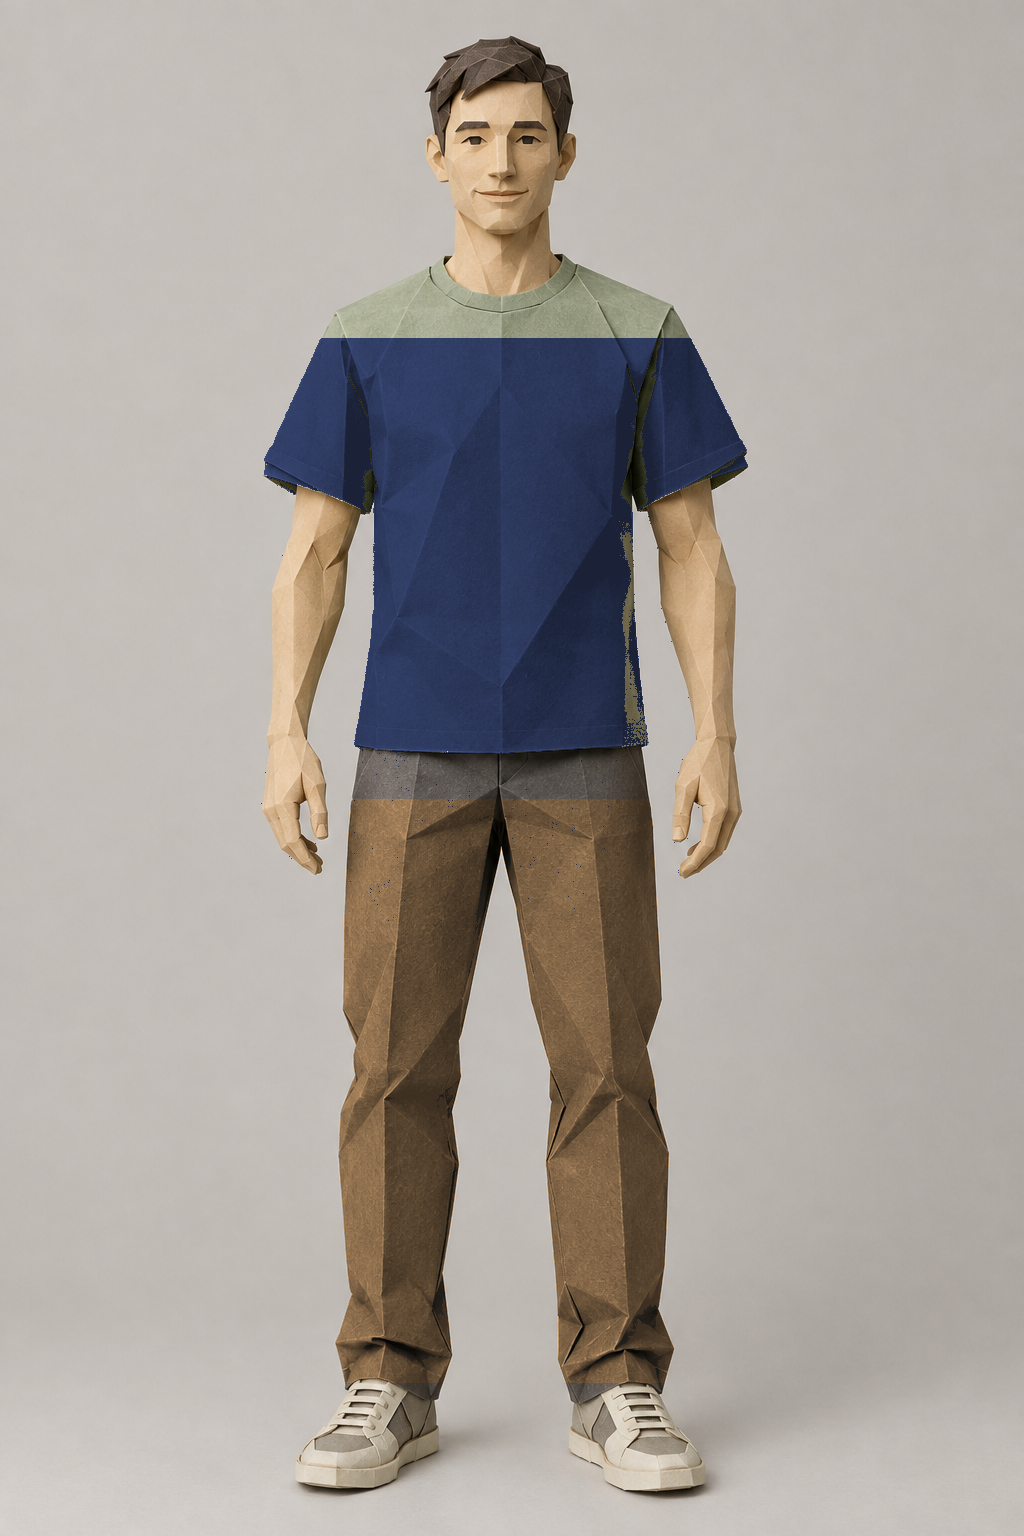
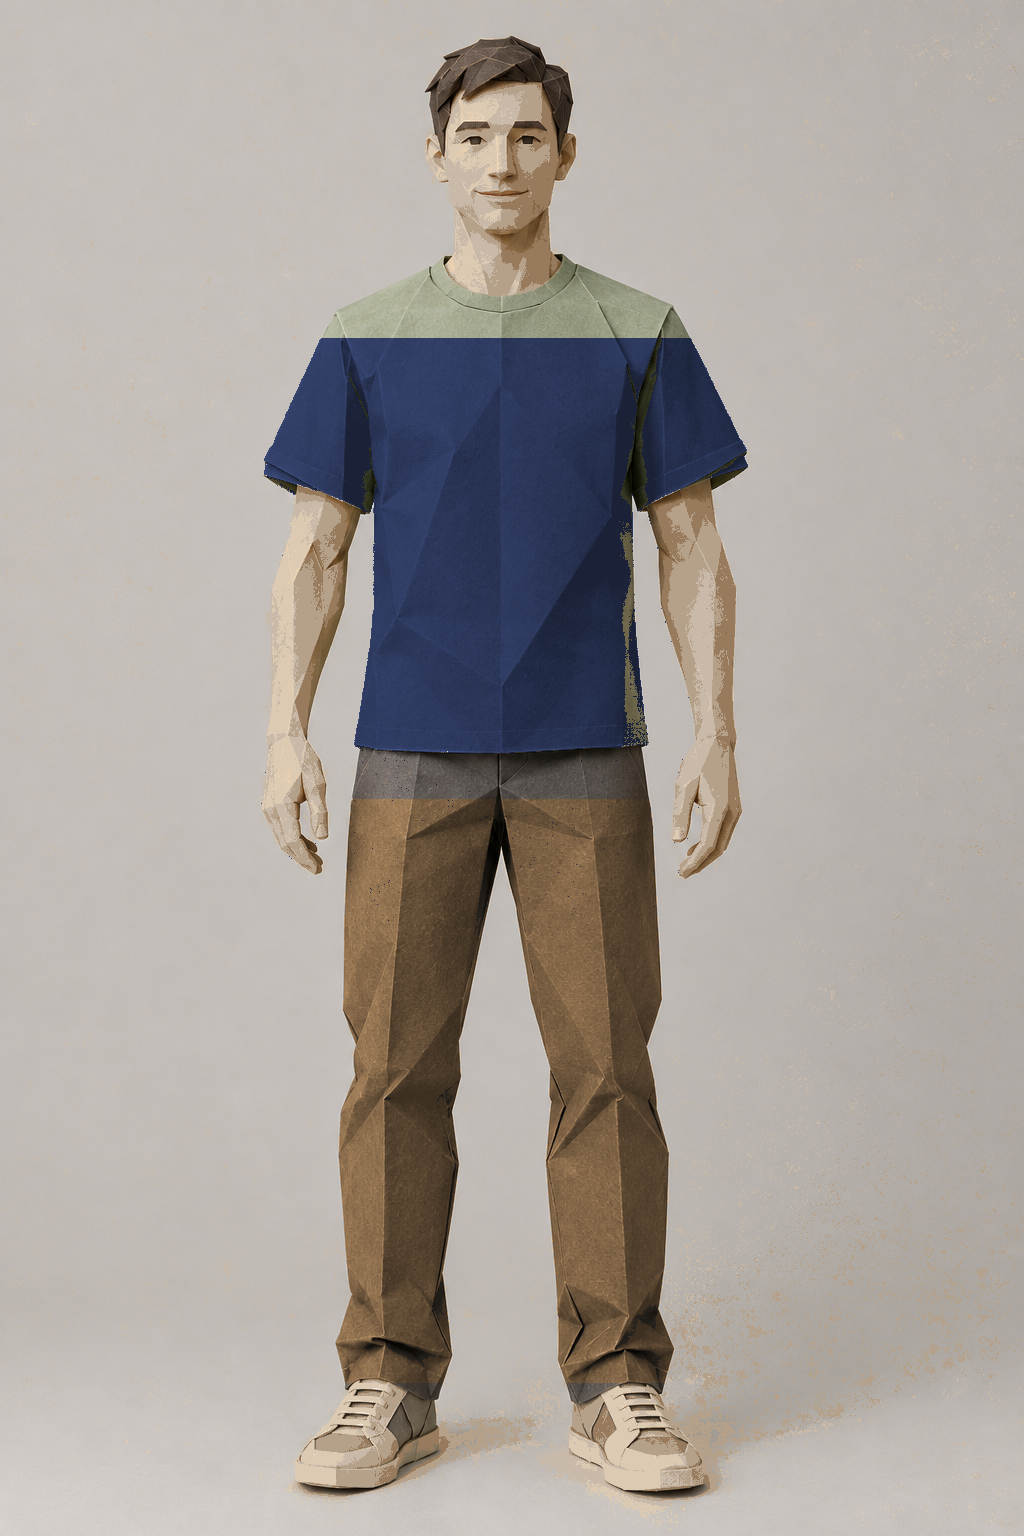
papercraft-cast: crispness pass on full-body chassis
- decimate 0.08 -> 0.03 (chunkier facets matching reference plates)
- deeper crease AO (0.028, darker), kraft normal 0.65, AgX MHC look,
  samples 96, kraft grain scale 2x
- contrast S-curve + saturation on the projected concept (removes the
  baked painterly softness); skin tones flattened to flat paper tones
  in concept_fullbody.png
- optional UV figure-box args for concept-with-margins remapping
- navy/brown colorway regenerated through the same pipeline

diff --git a/engine_sources/papercraft-cast/scripts/render_gen_fullbody.py b/engine_sources/papercraft-cast/scripts/render_gen_fullbody.py
@@ -9,6 +9,8 @@ def rp(p):
     return p if os.path.isabs(p) else os.path.join(ROOT, p)
 GLB, CONCEPT, OUT = rp(argv[0]), rp(argv[1]), rp(argv[2])
 DEC = float(argv[3]) if len(argv) > 3 else 0.05
+# optional figure box inside the concept image (u0 v0 u1 v1)
+UBOX = [float(x) for x in argv[4:8]] if len(argv) >= 8 else None
 KRAFT = os.path.join(ROOT, "assets", "kraft") + "/"
 
 bpy.ops.wm.read_factory_settings(use_empty=True)
@@ -43,13 +45,31 @@ def paperize(mat):
     tc = nt.nodes.new('ShaderNodeTexCoord')
     ptex = nt.nodes.new('ShaderNodeTexImage'); ptex.image = img_con
     uvn = nt.nodes.new('ShaderNodeUVMap'); uvn.uv_map = "projUV"
-    nt.links.new(uvn.outputs['UV'], ptex.inputs['Vector'])
+    if UBOX:
+        um = nt.nodes.new('ShaderNodeMapping')
+        um.vector_type = 'POINT'
+        um.inputs['Location'].default_value = (UBOX[0], UBOX[1], 0)
+        um.inputs['Scale'].default_value = (UBOX[2]-UBOX[0], UBOX[3]-UBOX[1], 1)
+        nt.links.new(uvn.outputs['UV'], um.inputs['Vector'])
+        nt.links.new(um.outputs['Vector'], ptex.inputs['Vector'])
+    else:
+        nt.links.new(uvn.outputs['UV'], ptex.inputs['Vector'])
     ktex = nt.nodes.new('ShaderNodeTexImage'); ktex.image = img_col
-    mp = nt.nodes.new('ShaderNodeMapping'); mp.inputs['Scale'].default_value = (3,3,3)
+    mp = nt.nodes.new('ShaderNodeMapping'); mp.inputs['Scale'].default_value = (2,2,2)
     nt.links.new(tc.outputs['Generated'], mp.inputs['Vector'])
     nt.links.new(mp.outputs['Vector'], ktex.inputs['Vector'])
+    # contrast S-curve + saturation on the projected concept (kills baked softness)
+    hs = nt.nodes.new('ShaderNodeHueSaturation')
+    hs.inputs['Saturation'].default_value = 1.14
+    hs.inputs['Value'].default_value = 1.02
+    nt.links.new(ptex.outputs['Color'], hs.inputs['Color'])
+    scurve = nt.nodes.new('ShaderNodeRGBCurve')
+    cc = scurve.mapping.curves[3]
+    cc.points.new(0.28, 0.18); cc.points.new(0.72, 0.82)
+    scurve.mapping.update()
+    nt.links.new(hs.outputs['Color'], scurve.inputs['Color'])
     m1 = nt.nodes.new('ShaderNodeMixRGB'); m1.blend_type='MULTIPLY'; m1.inputs[0].default_value=0.7
-    nt.links.new(ptex.outputs['Color'], m1.inputs[1])
+    nt.links.new(scurve.outputs['Color'], m1.inputs[1])
     nt.links.new(ktex.outputs['Color'], m1.inputs[2])
     geo = nt.nodes.new('ShaderNodeNewGeometry')
     ramp = nt.nodes.new('ShaderNodeValToRGB')
@@ -60,8 +80,8 @@ def paperize(mat):
     nt.links.new(geo.outputs['Pointiness'], ramp.inputs['Fac'])
     nt.links.new(ramp.outputs['Color'], m2.inputs[2])
     aon = nt.nodes.new('ShaderNodeAmbientOcclusion')
-    aon.inputs['Distance'].default_value = 0.015
-    aon.inputs['Color'].default_value = (0.60,0.53,0.46,1)
+    aon.inputs['Distance'].default_value = 0.028
+    aon.inputs['Color'].default_value = (0.52,0.45,0.38,1)
     m3 = nt.nodes.new('ShaderNodeMixRGB'); m3.blend_type='MULTIPLY'; m3.inputs[0].default_value=1.0
     nt.links.new(m2.outputs['Color'], m3.inputs[1])
     nt.links.new(aon.outputs['Color'], m3.inputs[2])
@@ -82,7 +102,7 @@ def paperize(mat):
     nt.links.new(bk.outputs['Color'], bsdf.inputs['Base Color'])
     ntex = nt.nodes.new('ShaderNodeTexImage'); ntex.image = img_nrm
     nt.links.new(mp.outputs['Vector'], ntex.inputs['Vector'])
-    nmap = nt.nodes.new('ShaderNodeNormalMap'); nmap.inputs['Strength'].default_value = 0.4
+    nmap = nt.nodes.new('ShaderNodeNormalMap'); nmap.inputs['Strength'].default_value = 0.65
     nt.links.new(ntex.outputs['Color'], nmap.inputs['Color'])
     nt.links.new(nmap.outputs['Normal'], bsdf.inputs['Normal'])
 
@@ -176,8 +196,9 @@ cam.rotation_euler = (target-cam.location).to_track_quat('-Z','Y').to_euler()
 bpy.context.scene.camera = cam
 
 sc = bpy.context.scene
-sc.render.engine = 'CYCLES'; sc.cycles.samples=48; sc.cycles.use_denoising=True; sc.cycles.max_bounces=4
+sc.render.engine = 'CYCLES'; sc.cycles.samples=96; sc.cycles.use_denoising=True; sc.cycles.max_bounces=4
 sc.render.resolution_x=720; sc.render.resolution_y=1100
+sc.view_settings.look = 'AgX - Medium High Contrast'
 sc.render.filepath = OUT
 bpy.ops.render.render(write_still=True)
 print("WROTE", OUT)
